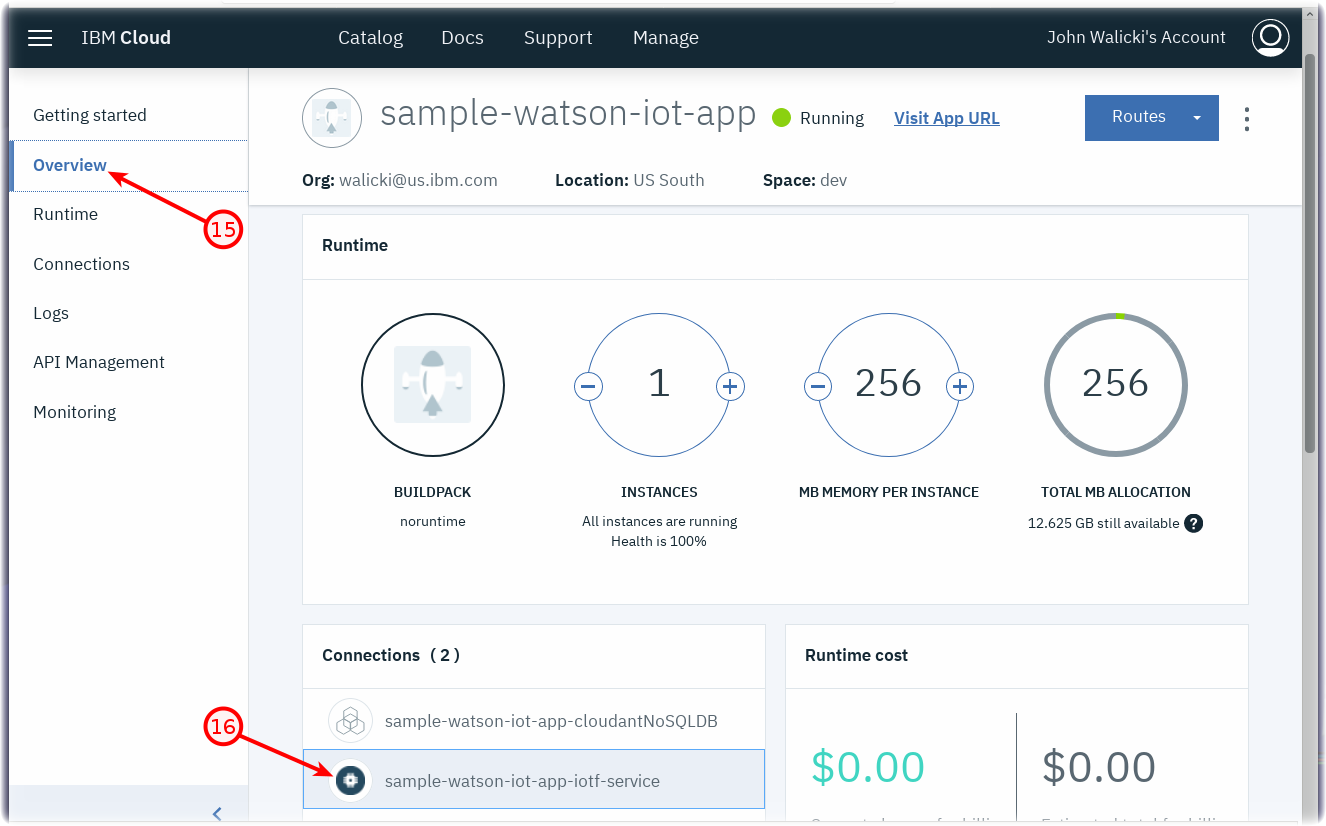
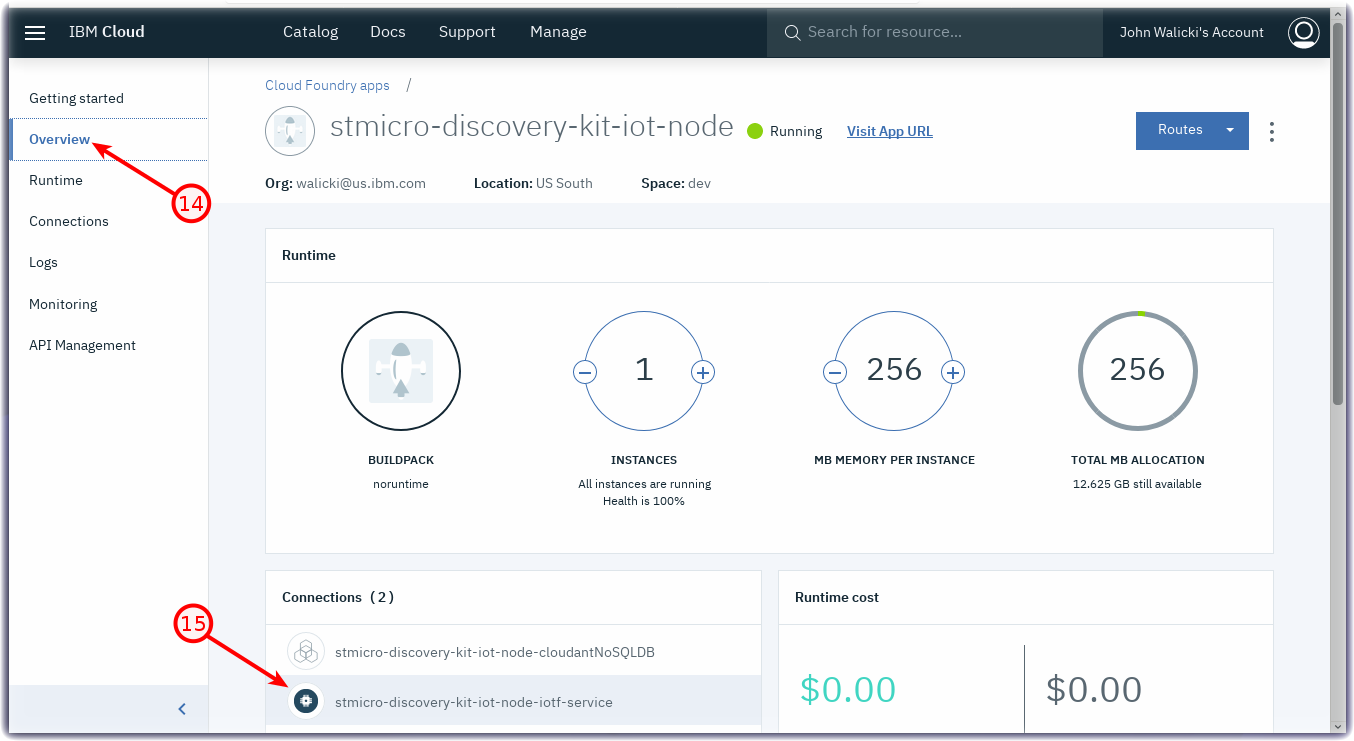
Discovery Kit instructions

diff --git a/DISCOVERYDEVICE.md b/DISCOVERYDEVICE.md
@@ -1,0 +1,67 @@
+*Quick links :*
+[Home](/README.md) - [Part 1](../part1/README.md) - [Part 2](../part2/README.md) - [**Part 3**](../part3/README.md) - [Part 4](../part4/README.md)
+***
+**Part 3** - [Intro to Node-RED](NODERED.md) - [**Receive Sensor Data**](DHTDATA.md) - [Plot Data](DASHBOARD.md) - [Store Data](CLOUDANT.md) - [Historical Data](HISTORY.md) - [Control Interval](INTERVAL.md) - [Control LED](LED.md)
+***
+
+# Receive Device Environmental Sensor Data in Node-RED
+
+## Lab Objectives
+
+In this lab you will build a flow that receives Device environmental temperature and humidity sensor data.  You will learn:
+
+- How to create a new Node-RED flow and configure IoT Nodes
+- How to output the Device environmental temperature and humidity data.
+- How to work with JSON data and observe the sensor results in the Debug sidebar.
+
+### Introduction
+
+In just a few nodes, Node-RED can receive the data that was transmitted from the device over MQTT to Watson IoT Platform.  This simple exercise will be the foundation for the next several sections that plot the data in a dashboard, trigger Real Time threshold alerts, store the data in Cloud Storage and allow for data analytics and anomaly detection.
+
+### Step 1 - Configure an IoT in Node
+
+- From the Input category of the left Node-RED palette, select an **ibmiot node** and drag it onto your Node-RED flow (1).
+- Double-click on the IBM IoT node. An **Edit ibmiot in node** sidebar will open.
+- Configure the Authentication dropdown to **Bluemix Service** (2).
+- Uncheck All and set the Device Type to **DiscoveryKit** (3).
+- Uncheck All and set the Event **status** (4).
+- Click on the red **Done** button.
+ ![Receive DiscoveryKit Data](screenshots/DiscoveryKit-ReceiveData-IoTnode.png)
+
+### Step 2 - Extract the Temperature from the JSON Object
+
+- Recall that the environmental sensor data was transmitted in a JSON object
+
+ ```
+ { "d": {"temperature":X, "humidity":Y }}
+ ```
+
+- Node-RED passes data from node to node in a *msg.payload* JSON object.
+- The **Change** node can be used to extract a particular value so that it can be directly output or manipulated (for instance in a Dashboard chart which we will take advantage of in the next section).
+- From the Function category of the left Node-RED palette, select a **Change** node and drag it onto your Node-RED flow (5).
+- Double-click on the Change node. An **Edit change node** sidebar will open.
+- Configure the "to" AZ dropdown to msg. and set it to *payload.d.temperature* (6).
+- Click on the red **Done** button.
+ ![Receive DHT Data](screenshots/DiscoveryKit-ReceiveData-Changenode.png)
+
+## Step 3 - Node-RED Debug Nodes
+
+- Debug nodes can be used to print out JSON object values and help you validate your program.
+- From the Output category of the left Node-RED palette, drag two **debug nodes** onto your Node-RED flow (7).
+- Double-click on one of them. An **Edit debug node** sidebar will open.
+- Configure the Output to print the *complete msg object* (8).
+- Click on the red **Done** button.
+ ![Receive DiscoveryKit Data](screenshots/DiscoveryKit-ReceiveData-Debugnode.png)
+
+### Step 4 - Wire the Node-RED nodes together
+
+- Wire the Node-RED nodes together by click / dragging your mouse from nodelet to nodelet as show in the screenshot.
+- Click on the red **Deploy** button in the upper right corner.
+- Observe the DHT sensor data in the **debug** tab of the Node-RED right sidebar.  You can expand the twisties to expose the JSON object information. Hover over a debug message in the right sidebar and the node that generated the message will be outlined in orange.
+  ![Receive DiscoveryKit Data](screenshots/DiscoveryKit-ReceiveData-Deploy.png)
+
+***
+**Part 3** - [Intro to Node-RED](NODERED.md) - [**Receive Sensor Data**](DHTDATA.md) - [Plot Data](DASHBOARD.md) - [Store Data](CLOUDANT.md) - [Historical Data](HISTORY.md) - [Control Interval](INTERVAL.md) - [Control LED](LED.md)
+***
+*Quick links :*
+[Home](/README.md) - [Part 1](../part1/README.md) - [Part 2](../part2/README.md) - [**Part 3**](../part3/README.md) - [Part 4](../part4/README.md)

diff --git a/NODERED.md b/NODERED.md
@@ -22,7 +22,7 @@ Node.js application that provides a visual programming editor that makes it easy
 
 ### Step 1 - Node-RED Visual Programming
 
-Recall that in Part 2, you created a IoT Starter Application. Once the Green **Running** icon appears, click the **View App URL** button (14)
+Recall that in Part 2, you created a IoT Starter Application. Once the Green **Running** icon appears, click the **View App URL** button (6)
 ![IBM Cloud screenshot](screenshots/Running-StarterKit-IoTP.png)
 
 ### Step 2 - How to secure your Node-RED Editor in IBM Cloud
@@ -50,9 +50,9 @@ Several panels will help you set up Node-RED in your Watson IoT Starter applicat
 ![IoTP Node-RED Default Flow](screenshots/IoTP-Starter-NodeRED-DefaultFlow.png)
 
 
-- The Node-RED Visual Programming Editor will open with a default flow.
-- On the left side is a palette of nodes that you can drag onto the flow.
-- You can wire nodes together to create a program.
+- The **Node-RED Visual Programming Editor** will open with a default flow.
+- On the left side is a **palette of nodes** that you can drag onto the flow.
+- You can **wire nodes together** to create a program.
 - The sample IoT Starter flow is not applicable to this workshop and can be deleted.
 
 ![IoT Starter Flow 1](screenshots/IoTStarter-DeleteFlow1-a.png)
@@ -74,7 +74,7 @@ Several panels will help you set up Node-RED in your Watson IoT Starter applicat
 
 ![Node-RED Manage Palette](screenshots/Node-RED-ManagePalette-a.png)
 
-- Turn to the **Install** tab (3), type node-red-dashboard (4) and press the **Install** button (5).
+- Turn to the **Install** tab (3), type **node-red-dashboard** (4) and press the **Install** button (5).
 
 ![Node-RED Manage Palette](screenshots/Node-RED-ManagePalette-b.png)
 

diff --git a/CREATEIOTP.md b/CREATEIOTP.md
@@ -8,7 +8,6 @@ After completing this tutorial you will be able to:
 * Create an IoT Starter Kit application running in IBM Cloud
 * Launch the Watson IoT Starter application
 * Open the Watson IoT Platform so that you can send data from IoT devices and device simulators
-* Configure the Node-RED visual programming editor
 
 ## Prerequisites
 This tutorial can be completed using an IBM Cloud Lite account.
@@ -49,10 +48,10 @@ The Internet of Things Starter application will be provisioned in the IBM Cloud 
 ## Step 3 - Launch the Watson IoT platform
 
 Return to the IBM Cloud Application Details page.
-* Click on the **Overview** item (15) in the left navigation menu.
-* Click on your *iotf-service* (16) in the **Connections** tile.
+* Click on the **Overview** item (14) in the left navigation menu.
+* Click on your *iotf-service* (15) in the **Connections** tile.
 ![App Overview](screenshots/App-Overview-StarterKit-IoTP.png)
-* The **Internet of Things** service landing page will open. Click on the **Launch** (17) button.
+* The **Internet of Things** service landing page will open. Click on the **Launch** (16) button.
 ![IoT Platform Landing Page](screenshots/IoTP-Service-LandingPage.png)
 * The **Watson IoT Platform** service will open in a new browser tab and you can create an IoT device.
 ![IoT Platform Device Page](screenshots/IoTP-Service-DevicePage.png)
